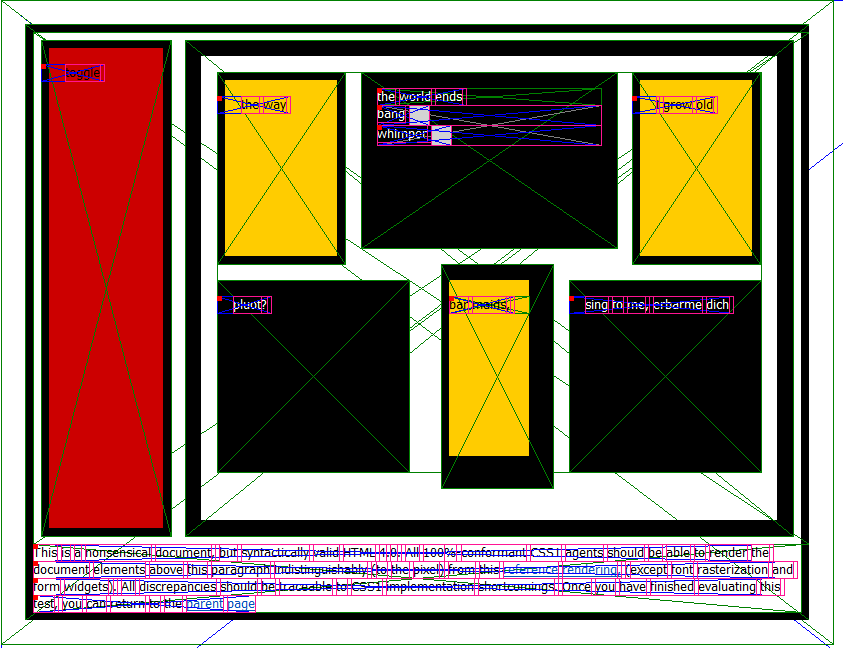
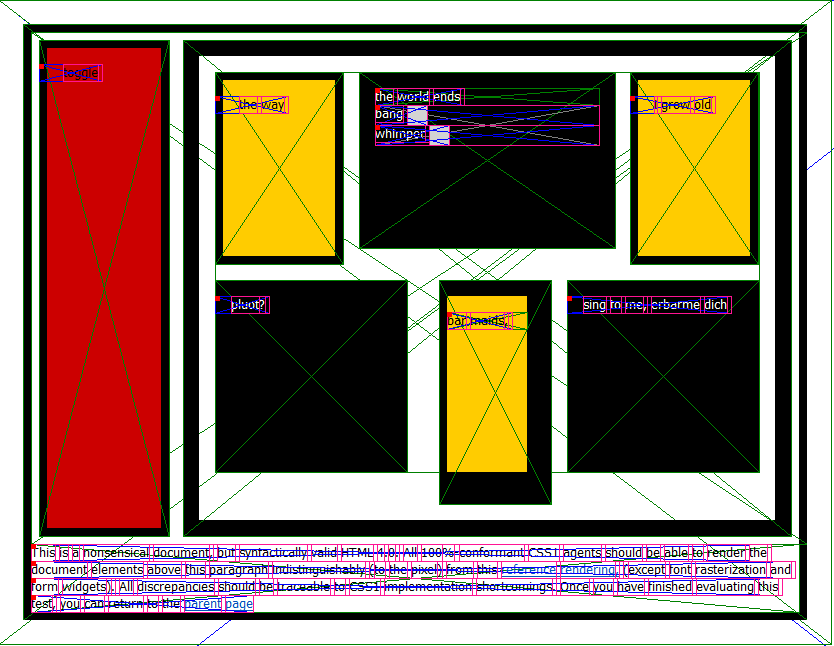
9034: temp fix vertical Y

diff --git a/Source/LayoutFarm.HtmlRenderer/2_Boxes/0_Root/HtmlContainer.cs b/Source/LayoutFarm.HtmlRenderer/2_Boxes/0_Root/HtmlContainer.cs
@@ -147,7 +147,8 @@ namespace LayoutFarm.HtmlBoxes
 
                 CssBox prevParent = null;
                 //TODO: review here again
-                float extraAdjust = 0; //temp fixed
+                float extraAdjustX = 0; //temp fixed
+                
 
                 for (int n = 0; n < floatBoxCount; ++n)
                 {
@@ -163,10 +164,13 @@ namespace LayoutFarm.HtmlBoxes
                         if (n > 0)
                         {
                             CssBox prevFloatChild = floatingContext.GetBox(n - 1);
-                            extraAdjust = prevFloatChild.ActualMarginRight + box.ActualMarginLeft;
+                            //TODO: review here again
+                            //temp fix
+                            extraAdjustX = prevFloatChild.ActualMarginRight + box.ActualMarginLeft;
+                            ny += box.ActualMarginTop;
                         }
                     }
-                    box.SetLocation(nx + extraAdjust, ny);
+                    box.SetLocation(nx + extraAdjustX, ny);
                     prevParent = box.ParentBox;
                     floatingOwner.AppendToAbsoluteLayer(box);
                 }
